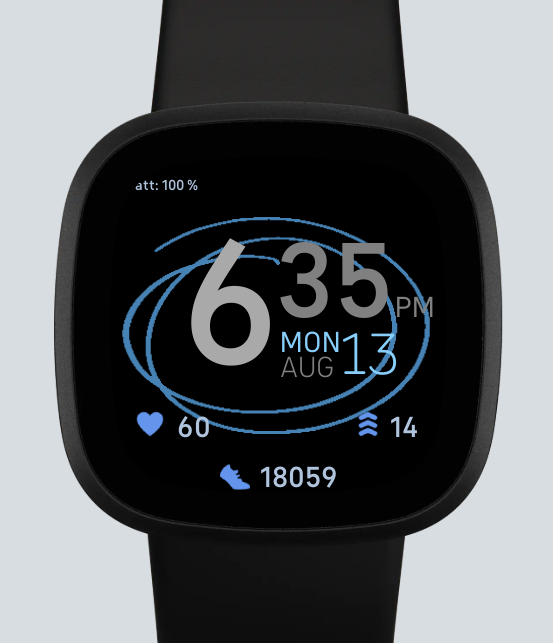
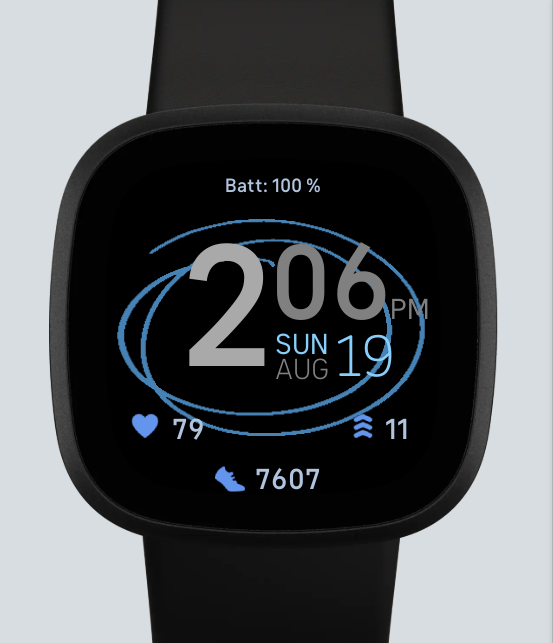
Cosmetic Update
index.js - Edited dayNames array to start on Sunday
style.css - Moved and resized battery label
widget.defs - removed import for widgets_common.gui
updated screenshots

diff --git a/app/index.js b/app/index.js
@@ -22,7 +22,7 @@ const heartrateHandle = document.getElementById("heartrateLabel");
 const amPmHandle = document.getElementById("amPmLabel");
 
 //create day and month arrays
-const dayNames = [`MON`, `TUE`, `WED`, `THU`, `FRI`, `SAT`, `SUN`];
+const dayNames = [`SUN`, `MON`, `TUE`, `WED`, `THU`, `FRI`, `SAT`];
 const monthNames = [`JAN`,`FEB`, `MAR`, `APR`, `MAY`, `JUN`, `JUL`, `AUG`,`SEP`,`OCT`,`NOV`,`DEC`]
 
 // The following block reads the heart rate from the watch
@@ -41,7 +41,7 @@ clock.ontick = (evt) => {
   let mins = now.getMinutes(); // separate the actual minute from the instant "now"
   let date = now.getDate(); // seperate date from "now"
   let day = now.getDay(); // seperate day of the week from the instant "now"
-  const dayName = dayNames[day-1]; // translate day number to day name by referenceing dayNames array
+  const dayName = dayNames[day]; // translate day number to day name by referenceing dayNames array
   let month = now.getMonth(); // seperate month from the instant "now"
   const monthName = monthNames[month-1]; // translate month number to month name by referenceing monthNames array
   const amPm; // to hold the AM or PM text

diff --git a/resources/styles.css b/resources/styles.css
@@ -72,11 +72,11 @@
 }
 
 #batteryLabel {
-  font-size: 15;
+  font-size: 20;
   font-family: System-Bold;
   text-length: 32;
-  text-anchor: start;
-  x: 5%;
+  text-anchor: middle;
+  x: 50%;
   y: 10%;
   fill: lightsteelblue;
 }
